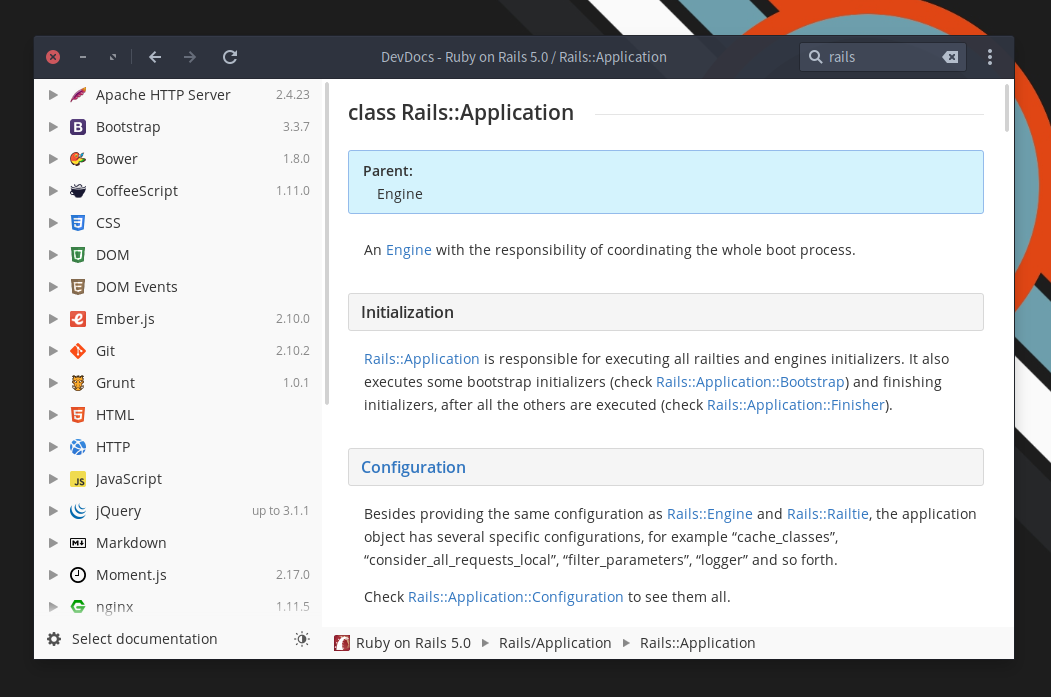
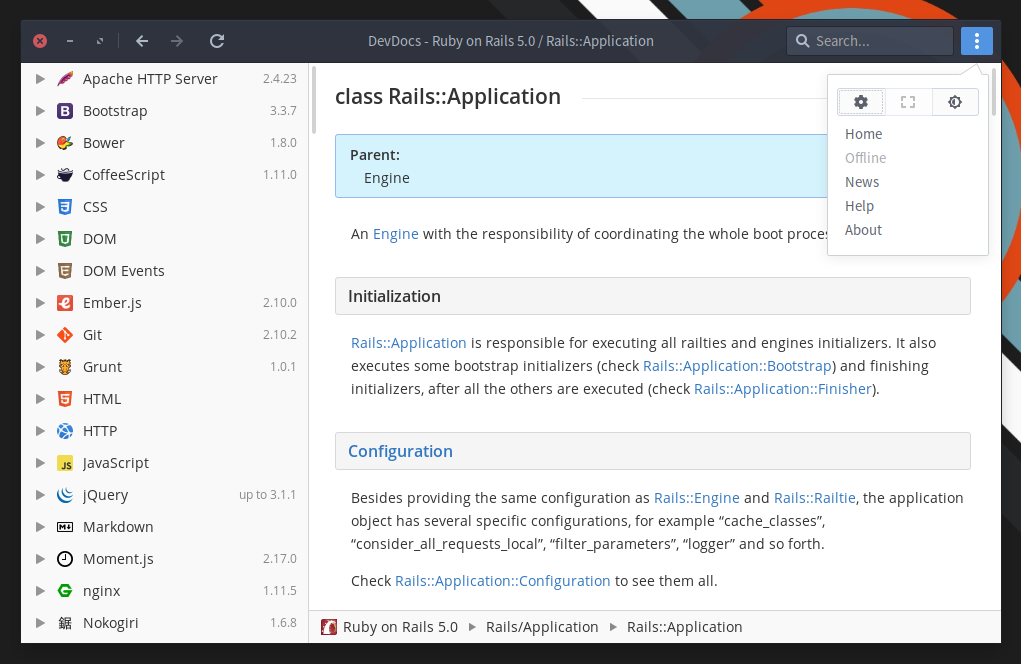
update screenshot and readme

Changed region(s): [[0.0, 0.0, 1.0, 0.994], [0.2429, 0.7229, 0.3036, 0.753]]

diff --git a/README.md b/README.md
@@ -9,6 +9,10 @@ DevDocs desktop application created with GTK3 and Python.
 To launch the application from the terminal use `devdocs-desktop [STRING]`.
 If a string is provided, the application will open the first available result page.
 
+## To Do
+
+Add support for offline documentation.
+
 ## Installation
 
 Arch Linux: [AUR Package](https://aur.archlinux.org/packages/devdocs-desktop)
